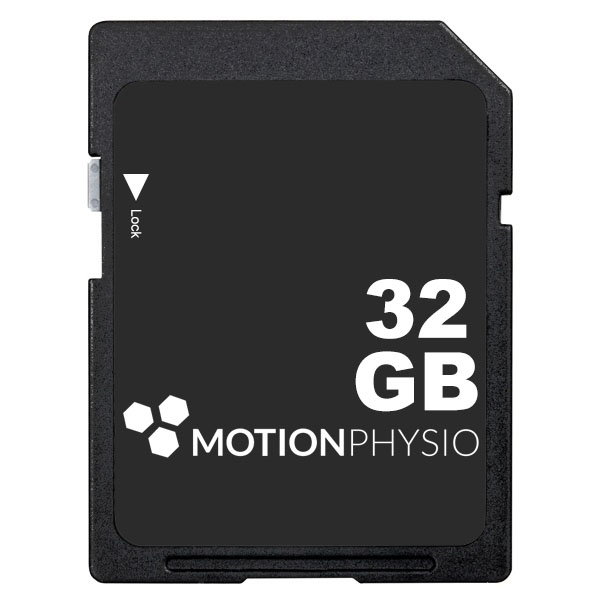
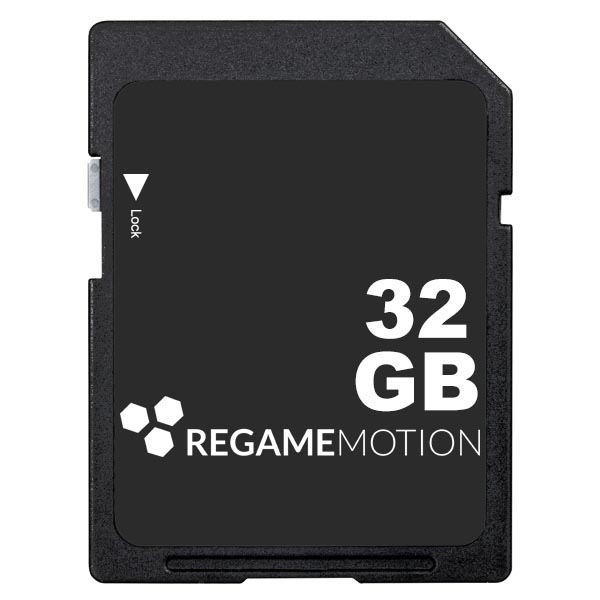
updated text and images. Deleted paragraph in contacts

Changed region(s): [[0.18, 0.66, 0.81, 0.78]]

diff --git a/src/scss/style.scss b/src/scss/style.scss
@@ -116,7 +116,7 @@ span.f-right {
     }
 
     p {
-        margin: 10px 0 20px 0;
+        margin: 30px 0 20px 0;
         font-size: 14px;
         font-weight: 300;
         line-height: 1.5;

diff --git a/src/php/index.php b/src/php/index.php
@@ -2,9 +2,9 @@
 
 <section id="home">
     <div id="home-text">
-        <h1>PROGRAM<br />MOTION<br />PHYSIO</h1>
+        <h1>PROGRAM<br />REGAME<br />MOTION</h1>
         <div class="breaker"></div>
-        <p>Lorem ipsum dolor sit amet, consectetur adipisicing elit. Modi iure numquam magni unde veniam itaque vero mollitia laborum dolor libero, dolorem quas odio voluptatibus ab alias! Quis odio optio, numquam.</p>
+        <p>uses the great technology of the Raspberry Pi, combined with ‘Scratch MIT’ software to create a simple and fantastically easy to use platform to create games or other content. </p>
     </div>
     <div id="scroll"><a href="#short-desc"><img src="img/scroll.png" alt="scroll" /></a></div>
 </section>
@@ -16,9 +16,9 @@
   </div>
 
   <div class="short-desc-two">
-    <h2 class="a-left"><span class="object">01</span><span class="break">/</span>WHAT IS MOTION PHYSIO</h2>
+    <h2 class="a-left"><span class="object">01</span><span class="break">/</span>WHAT IS REGAME MOTION</h2>
       <h1 class="a-left">SHARING OUR EXPERTISE & KNOWLEDGE</h1>
-        <p class="a-left">Lorem ipsum dolor sit amet, consectetur adipisicing elit. Deserunt quis veniam expedita velit quae error, at ducimus perspiciatis consequuntur, omnis et asperiores cumque! A amet porro voluptatibus ducimus! Explicabo, cumque.</p>
+        <p class="a-left">REGAME MOTION is a project made possible by a great team of educated students of the Lillebaelt Academy of Professional Higher Education’ in Odense, Denmark. </p>
           <div class="smallsep f-left"></div>
   </div>
 </section>
@@ -32,9 +32,7 @@
                 <h1>Products</h1>
                 <div class="mediumsep"></div>
                     <p id="undertekst">
-                      Lorem ipsum dolor sit amet, maiores ornare ac fermentum, imperdiet ut vivamus a, nam lectus at
-                      nunc. Quameuismod sem, semper ut potenti pellentesque quisque. In eget sapien sed, sit duis
-                      vestibulum ultricies, placerat morbi amet vel, nullam in in lorem vel.
+                     Choose between several different products and accessories for the REGAME MOTION. Create and customize your own package, tailored exactly for your needs! 
                     </p>
             </div>
         </div>
@@ -50,7 +48,7 @@
            <div class="content">
                <div class="box">
                <img id="image" width="50%" height="50%" alt="placeholder" src="img/motionphysio.jpg">
-               <h3>Raspberry Pi med SD kort </h3>
+               <h3>Raspberry Pi with SD kort </h3>
                <h4>Antal Enheder 3</h4>
                <span class="price">200.00 kr</span>
                     <ul>
@@ -67,7 +65,7 @@
 
                     <div class="product-info">
                       <img id="info-image" width="50%" alt="placeholder" src="img/motionphysio.jpg">
-                        <h1>Raspberry Pi med SD kort </h1>
+                        <h1>Raspberry Pi with SD kort </h1>
                           <p>Short description goes here</p>
                             <span class="price">200.00 kr</span>
                             
@@ -90,7 +88,7 @@
            <div class="content">
                <div class="box">
                <img id="image" width="50%" height="50%" alt="placeholder" src="img/motionphysio.jpg">
-               <h3>Raspberry Pi med SD kort </h3>
+               <h3>Raspberry Pi with SD kort </h3>
                <h4>Antal Enheder 3</h4>
                <span class="price">200.00 kr</span>
                     <ul>
@@ -139,8 +137,8 @@
         <div class="longsep"></div>
     <div class="col-1-5">
        <div class="content">
-           <img width="50%" height="50%" src="img/SD4.jpg" alt="">
-           <h5>Raspberry Pi med SD kort </h5>
+           <img width="50%" height="50%" src="img/træningselastik1.jpg" alt="">
+           <h5>Elastic for Raspberry Pi</h5>
            <h6>antal enheder: 1</h6>
            <span class="priceacc">200.00 kr</span>
             <ul>
@@ -158,8 +156,8 @@
     </div>
     <div class="col-1-5">
        <div class="content">
-           <img width="50%" height="50%" src="img/SD8.jpg" alt="">
-           <h5>Raspberry Pi med SD kort </h5>
+           <img width="50%" height="50%" src="img/træningselastik2.jpg" alt="">
+           <h5>Elastic for Raspberry Pi</h5>
            <h6>antal enheder: 1</h6>
            <span class="priceacc">200.00 kr</span>
             <ul>
@@ -177,8 +175,8 @@
     </div>
     <div class="col-1-5">
        <div class="content">
-           <img width="50%" height="50%" src="img/SD16.jpg" alt="">
-           <h5>Raspberry Pi med SD kort </h5>
+           <img width="50%" height="50%" src="img/bandsizer_sensor.jpg" alt="">
+           <h5>Sensor for Raspberry Pi</h5>
            <h6>antal enheder: 1</h6>
            <span class="priceacc">200.00 kr</span>
             <ul>
@@ -197,7 +195,7 @@
     <div class="col-1-5">
        <div class="content">
            <img width="50%" height="50%" src="img/SD32.jpg" alt="">
-           <h5>Raspberry Pi med SD kort </h5>
+           <h5>SD Card for Raspberry Pi</h5>
            <h6>antal enheder: 1</h6>
            <span class="priceacc">200.00 kr</span>
             <ul>
@@ -216,7 +214,7 @@
     <div class="col-1-5">
        <div class="content">
            <img width="50%" height="50%" src="img/stromforsyning.jpg" alt="">
-           <h5>Raspberry Pi med SD kort </h5>
+           <h5>Charger for Raspberry Pi</h5>
            <h6>antal enheder: 1</h6>
            <span class="priceacc">200.00 kr</span>
             <ul>
@@ -247,37 +245,37 @@
        <div class="content">
 
            <img src="img/process-1.png" alt="">
-           <p>Lorem ipsum dolor sit amet, consectetur adipisicing elit. </p>
+           <p>We identify your specific needs for the product, when you order.</p>
        </div>
     </div>
     <div class="col-1-6">
        <div class="content">
            <img src="img/process-2.png" alt="">
-            <p>Lorem ipsum dolor sit amet, consectetur adipisicing elit. </p>
+            <p>Then we start the creation of the product and all the games included. </p>
        </div>
     </div>
     <div class="col-1-6">
        <div class="content">
            <img src="img/process-3.png" alt="">
-            <p>Lorem ipsum dolor sit amet, consectetur adipisicing elit. </p>
+            <p>Then we call you, to make sure you get the right product for your exact needs. </p>
        </div>
     </div>
     <div class="col-1-6">
        <div class="content">
            <img src="img/process-4.png" alt="">
-            <p>Lorem ipsum dolor sit amet, consectetur adipisicing elit. </p>
+            <p>We finalize the product, design it, and get it ready for you to test. </p>
        </div>
     </div>
     <div class="col-1-6">
        <div class="content">
            <img src="img/process-5.png" alt="">
-            <p>Lorem ipsum dolor sit amet, consectetur adipisicing elit. </p>
+            <p>After the product is done, we meet up, and if there is any last corrections to your product, we will get it fixed.</p>
        </div>
     </div>
     <div class="col-1-6">
        <div class="content">
            <img src="img/process-6.png" alt="">
-            <p>Lorem ipsum dolor sit amet, consectetur adipisicing elit. </p>
+            <p>We deliver the product for you, and make sure you are happy with eveything, which is what we aim for! </p>
        </div>
     </div>
 </section>
@@ -291,9 +289,7 @@
             <h1>ABOUT</h1>
             <div class="mediumsep"></div>
                 <p id="undertekst">
-                  Lorem ipsum dolor sit amet, maiores ornare ac fermentum, imperdiet ut vivamus a, nam lectus at
-                  nunc. Quameuismod sem, semper ut potenti pellentesque quisque. In eget sapien sed, sit duis
-                  vestibulum ultricies, placerat morbi amet vel, nullam in in lorem vel.
+                 REGAME MOTION uses the great technology of the Raspberry Pi, combined with ‘Scratch MIT’ software to create a simple and fantastically easy to use platform to create games or other content.
                 </p>
             </div>
         </div>
@@ -302,7 +298,7 @@
     <div class="grid grid-pad">
         <div class="col-1-2">
            <div class="content">
-               <img class="aboutimg" alt="placeholder" width="61%" src="img/about_image1.jpg">
+               <img class="aboutimg" alt="about-the-pi" width="61%" src="img/aboutrasperry.png">
            </div>
         </div>
         <div class="col-1-2">
@@ -310,18 +306,10 @@
               <div class="overskrift">
               <span class="object">01</span>
               <span class="break">/</span>
-              <h2 class="clearfix">About Raspberry Pi</h2>
+              <h2 class="clearfix">About Raspberry Pi / Regame Motion</h2>
                </div>
             <h1 class="abouttitle">Book Appointment and lets roll</h1>
-               <p class="tell">Lorem ipsum dolor sit amet, consectetur adipisicing elit. Deserunt quis veniam expedita velit quae error, at ducimus perspiciatis consequuntur, omnis et asperiores cumque! A amet porro voluptatibus ducimus! Explicabo, cumque. Lorem ipsum dolor sit amet, consectetur adipisicing elit. Deserunt quis veniam expedita velit quae error, at ducimus perspiciatis consequuntur, omnis et asperiores.</p>
-              <!--  <img class="aboutimg" alt="placeholder" width="61%" src="img/about_image1.jpg" />
-           </div>
-        </div>
-        <div class="col-1-2">
-           <div class="f-text-left">
-            <h2><span class="object">01</span><span class="break">/</span>Raspberry Pi</h2>
-               <p>Lorem ipsum dolor sit amet, consectetur adipisicing elit. Deserunt quis veniam expedita velit quae error, at ducimus perspiciatis consequuntur, omnis et asperiores cumque! A amet porro voluptatibus ducimus! Explicabo, cumque.</p>
-               <div class="smallsep f-left"></div> -->
+               <p class="tell">The Raspberry Pi is a tiny computer that has the processing power needed to run simple things such as word-processing, spreadsheets, and most importantly small games. It is powered by a USB phone charger, and has two USB ports. It can be connected to your TV, or even a projector. <br /> The software that we include in the Raspberry Pi is called Scratch, and is a programming platform created at the Massachusetts Institute of Technology that is targeted at all audiences, allowing for such a simple way to program that even children that have never touched any programming languages are able to use it. <br /> Combining these two tools allows for an easy way to create games that can help for rehabilitation purposes. </p>
             </div>
         </div>
     </div>
@@ -338,17 +326,12 @@
             </div>
         
             <h1 class="abouttitle">Book Appointment and lets roll</h1>
-               <p class="tell">Lorem ipsum dolor sit amet, consectetur adipisicing elit. Deserunt quis veniam expedita velit quae error, at ducimus perspiciatis consequuntur, omnis et asperiores cumque! A amet porro voluptatibus ducimus! Explicabo, cumque. Lorem ipsum dolor sit amet, consectetur adipisicing elit. Deserunt quis veniam expedita velit quae error, at ducimus perspiciatis consequuntur, omnis et asperiores.</p>
-
-           <!-- <div class="f-text-right">
-            <h2><span class="object">02</span><span class="break">/</span>Raspberry Pi</h2>
-               <p>Lorem ipsum dolor sit amet, consectetur adipisicing elit. Deserunt quis veniam expedita velit quae error, at ducimus perspiciatis consequuntur, omnis et asperiores cumque! A amet porro voluptatibus ducimus! Explicabo, cumque.</p>
-               <div class="smallsep f-right"></div> -->
+               <p class="tell">To make sure you get the right products for your exact needs. We offer you the possibility to call us and then we’ll advise and guide you. Please contact us through our contact formula</p>
           </div>
         </div>
         <div class="col-1-2">
            <div class="content">
-               <img class="aboutimg" alt="placeholder" width="61%" src="img/about_image2.jpg">
+               <img class="aboutimg" alt="placeholder" width="61%" src="img/bookappontment.png">
            </div>
         </div>
     </div>
@@ -363,9 +346,7 @@
           <h1>CONTACT</h1>
               <div class="mediumsep"></div>
                   <p id="undertekst">
-                    Lorem ipsum dolor sit amet, maiores ornare ac fermentum, imperdiet ut vivamus a, nam lectus at
-                    nunc. Quameuismod sem, semper ut potenti pellentesque quisque. In eget sapien sed, sit duis
-                    vestibulum ultricies, placerat morbi amet vel, nullam in in lorem vel.
+                    If you have any questions about the website, the product or anything else, then feel free to contact us by submitting the form below. 
                   </p>
           </div>
       </div>
@@ -376,7 +357,7 @@
   <div id="contact-wrap">
     <div id="contact-details">
       <h1>DETAILS</h1>
-      <p class="contact-p">Lorem ipsum dolor sit amet, consectetur adipisicing elit. Vel ex eum suscipit soluta libero eveniet.</p>
+      <p class="contact-p">You can contact us simply by submitting the form followed by your message, or you can also contact us directly by email or phone below.</p>
       
       <div class="span-details">
         <span>01</span>
@@ -390,14 +371,6 @@
           <p>EMAIL@EMAILADRESS.COM</p></br />
           <p>FAX: 0440463423</p></br />
           <p>CELLPHONE: +45 54 24 54 24</p>
-      </div>
-
-
-      <div class="span-details">
-        <span>03</span>
-          <p>DETAILS</p></br />
-          <p>DETAILS</p></br />
-          <p>DETAILS</p>
       </div>
 
     </div>
